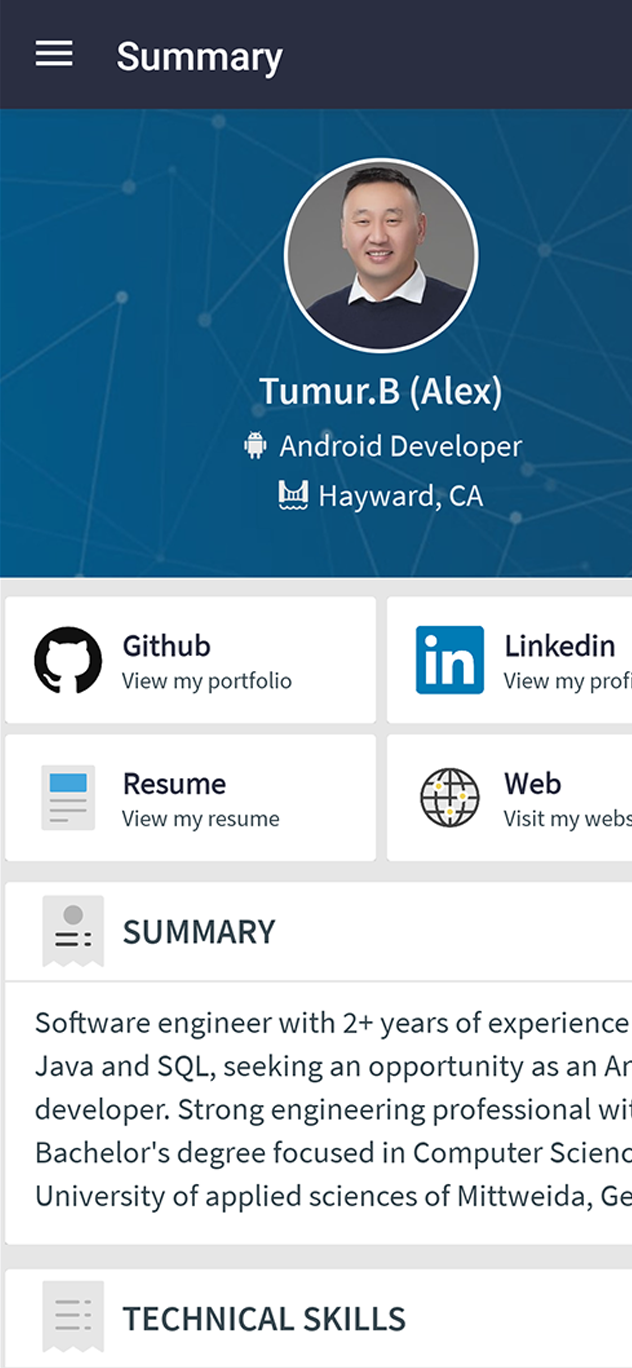
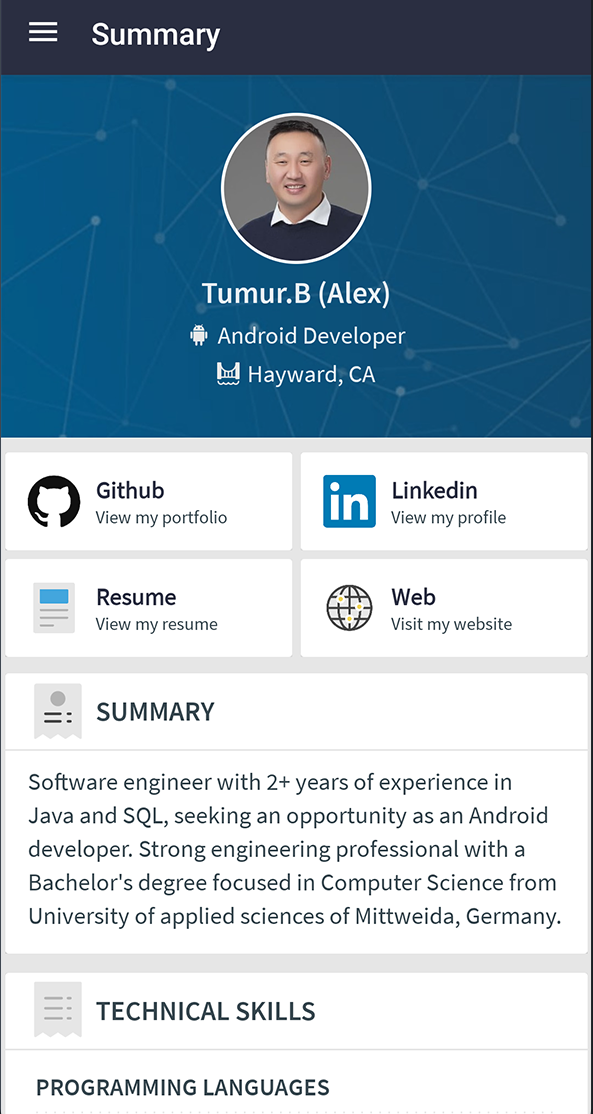
Fixed minor ui issues

diff --git a/components/project/sub-components/project-screenshot.tsx b/components/project/sub-components/project-screenshot.tsx
@@ -1,8 +1,8 @@
-import { FC } from "react"
-import Image from "next/image"
+import Image from "next/image";
+import { FC } from "react";
 
 interface ProjectScreenShotProps {
-  screenshot: string
+  screenshot: string;
 }
 
 const ProjectScreenShot: FC<ProjectScreenShotProps> = ({ screenshot }) => {
@@ -13,7 +13,7 @@ const ProjectScreenShot: FC<ProjectScreenShotProps> = ({ screenshot }) => {
           <div className="text-normal absolute left-2.5 top-0 -translate-y-1/2 bg-white px-2 font-normal text-slate-500 dark:bg-slate-800">
             Screenshot
           </div>
-          <div className="relative mx-auto flex min-h-fit w-[220px] justify-center">
+          {/* <div className="relative mx-auto flex min-h-fit w-[220px] justify-center">
             <svg
               viewBox="0 0 366 729"
               role="img"
@@ -48,11 +48,26 @@ const ProjectScreenShot: FC<ProjectScreenShotProps> = ({ screenshot }) => {
                 />
               </foreignObject>
             </svg>
+          </div> */}
+          <div className="relative mx-auto h-[550px] w-[300px] rounded-[2.5rem] border-[14px] border-gray-800 bg-gray-800 shadow-xl dark:border-gray-800">
+            <div className="absolute left-1/2 top-0 h-[18px] w-[148px] -translate-x-1/2 rounded-b-[1rem] bg-gray-800"></div>
+            <div className="absolute -left-[17px] top-[124px] h-[46px] w-[3px] rounded-l-lg bg-gray-800"></div>
+            <div className="absolute -left-[17px] top-[178px] h-[46px] w-[3px] rounded-l-lg bg-gray-800"></div>
+            <div className="absolute -right-[17px] top-[142px] h-[64px] w-[3px] rounded-r-lg bg-gray-800"></div>
+            <div className="h-[520px] w-[272px] overflow-hidden rounded-[2rem] bg-white dark:bg-gray-800">
+              <img
+                src={screenshot}
+                alt="Screenshot"
+                width={272}
+                height={520}
+                className="h-[520px] w-[272px] object-contain object-center"
+              />
+            </div>
           </div>
         </div>
       </div>
     </>
-  )
-}
+  );
+};
 
-export default ProjectScreenShot
+export default ProjectScreenShot;

diff --git a/lib/utils.ts b/lib/utils.ts
@@ -1,6 +1,61 @@
-import { type ClassValue, clsx } from "clsx"
+import { ClassValue, clsx } from "clsx"
 import { twMerge } from "tailwind-merge"
- 
+
 export function cn(...inputs: ClassValue[]) {
   return twMerge(clsx(inputs))
 }
+
+export function formatDate(input: string | number): string {
+  const date = new Date(input)
+  return date.toLocaleDateString("en-US", {
+    month: "long",
+    day: "numeric",
+    year: "numeric",
+  })
+}
+
+export function getUrl() {
+  if (process.env.NODE_ENV === "development") {
+    return process.env.NEXT_PUBLIC_APP_URL || "http://localhost:3000"
+  } else {
+    return process.env.NEXT_PUBLIC_WEB_URL || "https://timtb.dev"
+  }
+}
+
+export function constructOgImageUri(
+  subTitle: string,
+  title: string,
+  tags: Array<string>,
+  slug: string
+) {
+  const uri = [
+    `?title=${encodeURIComponent(title)}`,
+    `&subTitle=${encodeURIComponent(subTitle)}`,
+    `${tags.map((tag) => `&tags=${encodeURIComponent(tag)}`).join("")}`,
+    `&slug=${encodeURIComponent(slug)}`,
+    // Joining a multiline string for readability.
+  ].join("")
+
+  return `${getUrl()}/api/og${uri}`
+}
+
+export const shimmer = (w: number, h: number) => `
+<svg width="${w}" height="${h}" version="1.1" xmlns="http://www.w3.org/2000/svg" xmlns:xlink="http://www.w3.org/1999/xlink">
+  <defs>
+    <linearGradient id="g">
+      <stop stop-color="#333" offset="20%" />
+      <stop stop-color="#222" offset="50%" />
+      <stop stop-color="#333" offset="70%" />
+    </linearGradient>
+  </defs>
+  <rect width="${w}" height="${h}" fill="#333" />
+  <rect id="r" width="${w}" height="${h}" fill="url(#g)" />
+  <animate xlink:href="#r" attributeName="x" from="-${w}" to="${w}" dur="1s" repeatCount="indefinite"  />
+</svg>`
+
+export const toBase64 = (str: string) =>
+  typeof window === "undefined"
+    ? Buffer.from(str).toString("base64")
+    : window.btoa(str)
+
+export const removeLastChar = (str: string) => str.slice(0, -1)

diff --git a/app/layout.tsx b/app/layout.tsx
@@ -5,7 +5,7 @@ import { Inter as FontSans } from "next/font/google"
 import localFont from "next/font/local"
 import { MainWrapper, ThemeProvider, TwIndicator } from "@/components/main"
 import { metaData } from "@/config/meta"
-import { cn, constructOgImageUri, getUrl } from "@/libs/utils"
+import { cn, constructOgImageUri, getUrl } from "@/lib/utils"
 import { Analytics as VercelAnalytics } from "@vercel/analytics/react"
 import { Toaster } from "react-hot-toast"
 

diff --git a/app/(pages)/contact/page.tsx b/app/(pages)/contact/page.tsx
@@ -2,7 +2,7 @@ import { Metadata } from "next"
 import { ContactForm } from "@/components/contact"
 import { metaData } from "@/config/meta"
 import { EmailIcon, GithubIcon, TwitterIcon } from "@/icons"
-import { cn, constructOgImageUri, getUrl } from "@/libs/utils"
+import { cn, constructOgImageUri, getUrl } from "@/lib/utils"
 import { allPages, allSocials } from "contentlayer/generated"
 import Balancer from "react-wrap-balancer"
 

diff --git a/app/(pages)/about/page.tsx b/app/(pages)/about/page.tsx
@@ -2,7 +2,7 @@ import { Metadata } from "next"
 import Image from "next/image"
 import Mdx from "@/components/ui/mdx"
 import { metaData } from "@/config/meta"
-import { constructOgImageUri, getUrl } from "@/libs/utils"
+import { constructOgImageUri, getUrl } from "@/lib/utils"
 import { allPages } from "contentlayer/generated"
 import Balancer from "react-wrap-balancer"
 

diff --git a/app/(pages)/blog/[...slug]/page.tsx b/app/(pages)/blog/[...slug]/page.tsx
@@ -2,7 +2,7 @@ import { Metadata } from "next"
 import Image from "next/image"
 import { notFound } from "next/navigation"
 import Mdx from "@/components/ui/mdx"
-import { constructOgImageUri, getUrl } from "@/libs/utils"
+import { constructOgImageUri, getUrl } from "@/lib/utils"
 import { allPosts } from "contentlayer/generated"
 
 interface PostPageProps {

diff --git a/app/api/contact/route.tsx b/app/api/contact/route.tsx
@@ -1,6 +1,6 @@
 import { NextRequest, NextResponse } from "next/server"
 import { Email } from "@/components/contact/"
-import { smtpEmail, transporter } from "@/libs/nodemailer"
+import { smtpEmail, transporter } from "@/lib/nodemailer"
 import { render } from "@react-email/components"
 import * as z from "zod"
 

diff --git a/components/ui/mdx.tsx b/components/ui/mdx.tsx
@@ -1,6 +1,6 @@
 import { FC } from "react"
 import Image, { ImageProps } from "next/image"
-import { cn } from "@/libs/utils"
+import { cn } from "@/lib/utils"
 import { useMDXComponent } from "next-contentlayer/hooks"
 
 type Props = {

diff --git a/components/navigations/core/toggle.tsx b/components/navigations/core/toggle.tsx
@@ -1,7 +1,7 @@
 "use client"
 
 import { FC, useEffect, useState } from "react"
-import { cn } from "@/libs/utils"
+import { cn } from "@/lib/utils"
 import { Switch } from "@headlessui/react"
 import { useTheme } from "next-themes"
 

diff --git a/components/navigations/desktop/desktop-nav.tsx b/components/navigations/desktop/desktop-nav.tsx
@@ -1,6 +1,6 @@
 import { FC, useState } from "react"
 import Link from "next/link"
-import { cn } from "@/libs/utils"
+import { cn } from "@/lib/utils"
 import { Menu } from "@/types"
 
 interface DesktopNavProps {

diff --git a/components/navigations/mobile/mobile-menu-button.tsx b/components/navigations/mobile/mobile-menu-button.tsx
@@ -1,5 +1,5 @@
 import { FC } from "react"
-import { cn } from "@/libs/utils"
+import { cn } from "@/lib/utils"
 import { Disclosure } from "@headlessui/react"
 
 interface MobileMenuButtonProps {

diff --git a/prettier.config.js b/prettier.config.js
@@ -16,7 +16,6 @@ module.exports = {
     "^@components/(.*)$",
     "^@config/(.*)$",
     "^@hooks/(.*)$",
-    "^@libs/(.*)$",
     "^@styles/(.*)$",
     "^@types/(.*)$",
     "^[./]",
